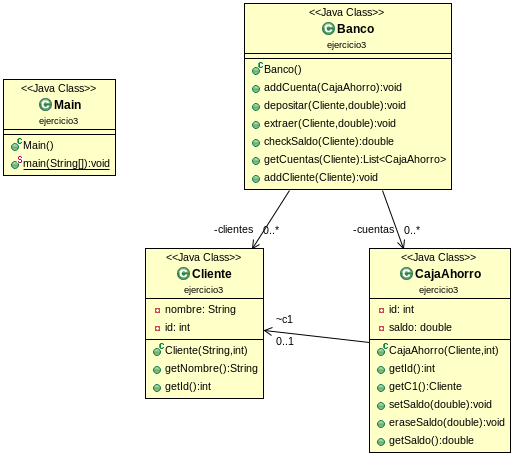
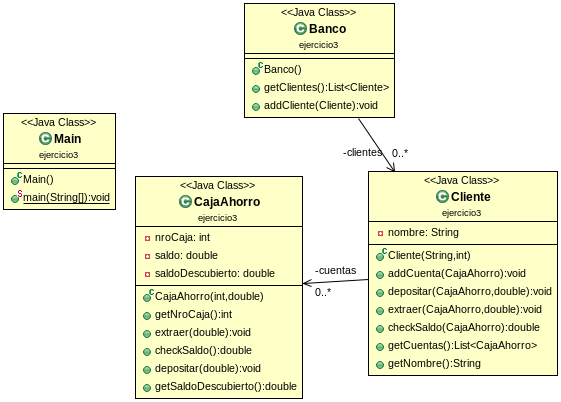
Finalizado Banco

diff --git a/practico3/src/ejercicio3/Banco.java b/practico3/src/ejercicio3/Banco.java
@@ -5,45 +5,12 @@ import java.util.List;
 
 public class Banco {
 	private List<Cliente> clientes= new ArrayList<>();
-	private List<CajaAhorro> cuentas= new ArrayList<>();
-	
-	public void addCuenta(CajaAhorro a1) {
-		cuentas.add(a1);
+	public List<Cliente> getClientes(){
+		return new ArrayList<Cliente>(this.clientes);
 	}
-	public void depositar(Cliente c1,double saldo) {
-		for (CajaAhorro ca:this.cuentas) {
-			if (ca.getC1().getId()==c1.getId())
-				ca.setSaldo(saldo);
-		}
-	}
-	public void extraer(Cliente c1,double saldo) {
-		for (CajaAhorro ca:this.cuentas) {
-			if (ca.getC1().getId()==c1.getId())
-				ca.eraseSaldo(saldo);
-		}
-	}
-	public double checkSaldo(Cliente c1) {
-		for (CajaAhorro ca:this.cuentas) {
-			if (ca.getC1().getId()==c1.getId())
-				return ca.getSaldo();
-		}
-		return 0;
-	}
-	
-	public List<CajaAhorro> getCuentas(Cliente c1) {
-		List<CajaAhorro> cuentasCliente = new ArrayList<>();
-		for (CajaAhorro ca:this.cuentas)
-			if (ca.getC1().getId()==c1.getId())
-				cuentasCliente.add(ca);
-		return cuentasCliente;
-	}
-	
-	
 	
 	public void addCliente(Cliente c1) {
 		clientes.add(c1);
 		
 	}
-	
-
 }

diff --git a/practico3/src/ejercicio3/CajaAhorro.java b/practico3/src/ejercicio3/CajaAhorro.java
@@ -1,30 +1,31 @@
 package ejercicio3;
 
 public class CajaAhorro {
-	private int id;
-	Cliente c1;
+	private int nroCaja;
 	private double saldo=0;
-	public CajaAhorro(Cliente c1,int i) {
-		this.id=i;
-		this.c1=c1;
+	private double saldoDescubierto;
+
+	public CajaAhorro(int nroCaja,double saldodes) {
+		this.saldoDescubierto=saldodes;
+		this.nroCaja=nroCaja;
 	}
-	public int getId() {
-		return id;
+	public int getNroCaja() {
+		return nroCaja;
 	}
-	public Cliente getC1() {
-		return c1;
-	}
-	public void setSaldo(double saldo) {
-		this.saldo+=saldo;
-	}
-	public void eraseSaldo(double saldo) {
+	
+	public void extraer(double saldo) {
 		this.saldo-=saldo;
 	}
-	public double getSaldo() {
+	public double checkSaldo() {
 		return saldo;
 	}
 	
+	public void depositar(double saldo) {
+		this.saldo+=saldo;
+	}
+
+	public double getSaldoDescubierto() {
+		return saldoDescubierto;
+	}
 	
-
-
 }

diff --git a/practico3/src/ejercicio3/Cliente.java b/practico3/src/ejercicio3/Cliente.java
@@ -1,17 +1,37 @@
 package ejercicio3;
 
+import java.util.ArrayList;
+import java.util.List;
+
 public class Cliente {
 	private String nombre;
-	private int id;
+	private List<CajaAhorro> cuentas= new ArrayList<>();
 	public Cliente(String n,int i) {
 		this.nombre=n;
-		this.id=i;
 	}
+	
+	public void addCuenta(CajaAhorro a1) {
+		cuentas.add(a1);
+	}
+	public void depositar(CajaAhorro a1,double saldo) {
+		a1.depositar(saldo);
+	}
+	public void extraer(CajaAhorro a1,double saldo) {
+		a1.extraer(saldo);
+	}
+	public double checkSaldo(CajaAhorro a1) {
+		return a1.checkSaldo();
+	}
+
+	public List<CajaAhorro> getCuentas() {
+		List<CajaAhorro> cuentasCliente = new ArrayList<>();
+		for (CajaAhorro ca:this.cuentas)
+				cuentasCliente.add(ca);
+		return cuentasCliente;
+	}
+	
 	public String getNombre() {
 		return nombre;
-	}
-	public int getId() {
-		return id;
 	}
 	
 }

diff --git a/practico3/src/ejercicio3/Main.java b/practico3/src/ejercicio3/Main.java
@@ -4,11 +4,12 @@ public class Main {
 
 	public static void main(String[] args) {
 	Cliente c1 = new Cliente("nicolas",01);
-	CajaAhorro ca = new CajaAhorro(c1,01);
+	CajaAhorro ca = new CajaAhorro(1,0);
 	Banco b1= new Banco();
 	b1.addCliente(c1);
-	b1.addCuenta(ca);
-	System.out.print(b1.checkSaldo(c1));
+	c1.addCuenta(ca);
+	c1.depositar(ca, 30);
+	System.out.println(c1.checkSaldo(ca));
 
 	}
 
